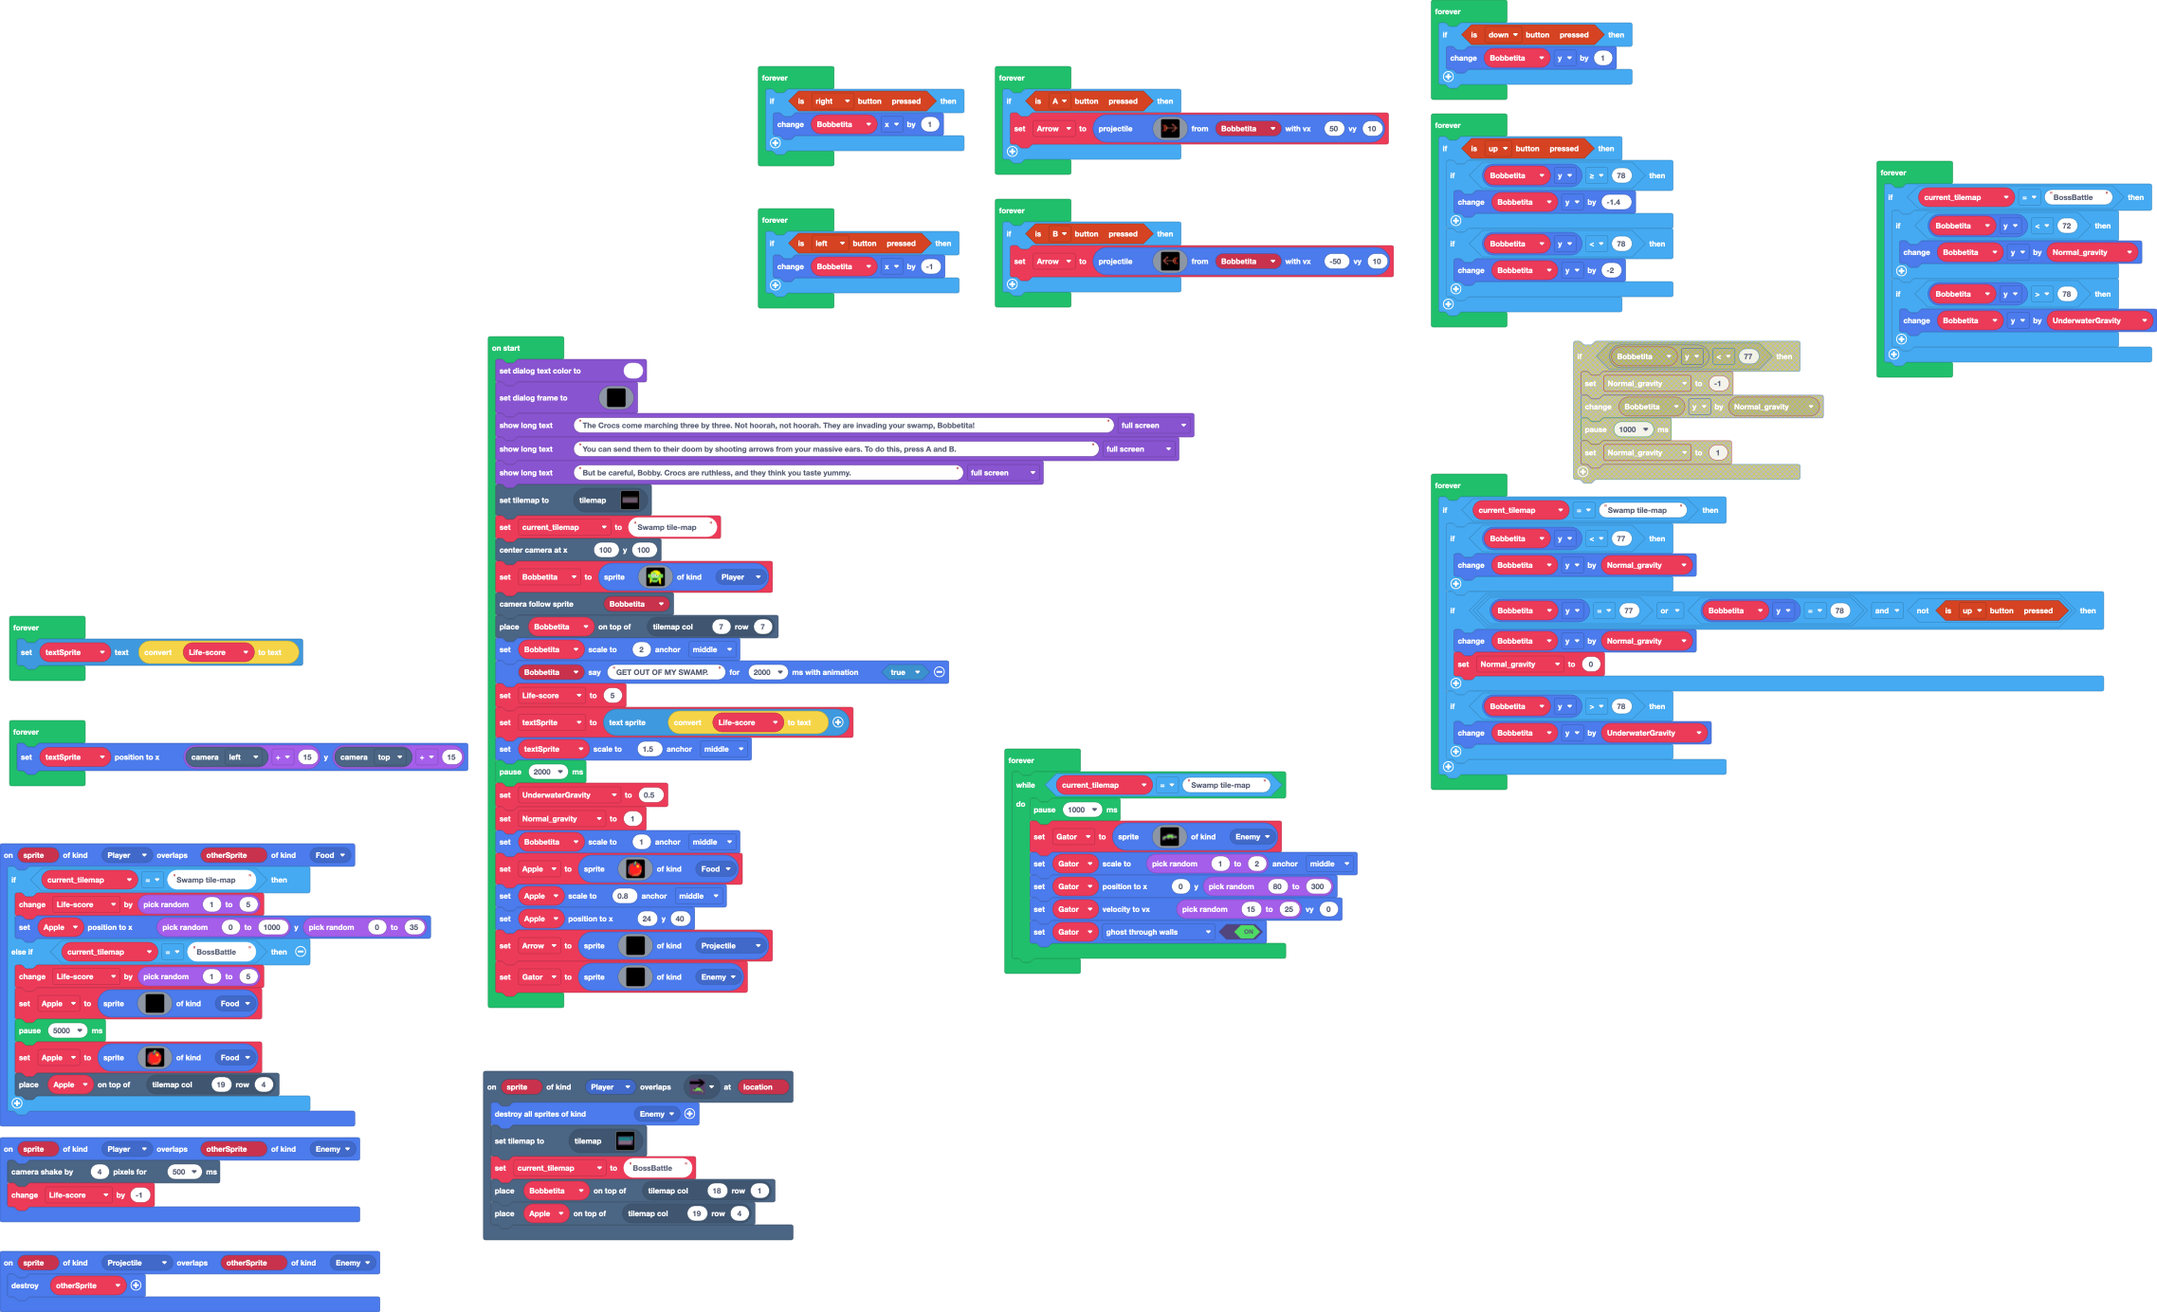
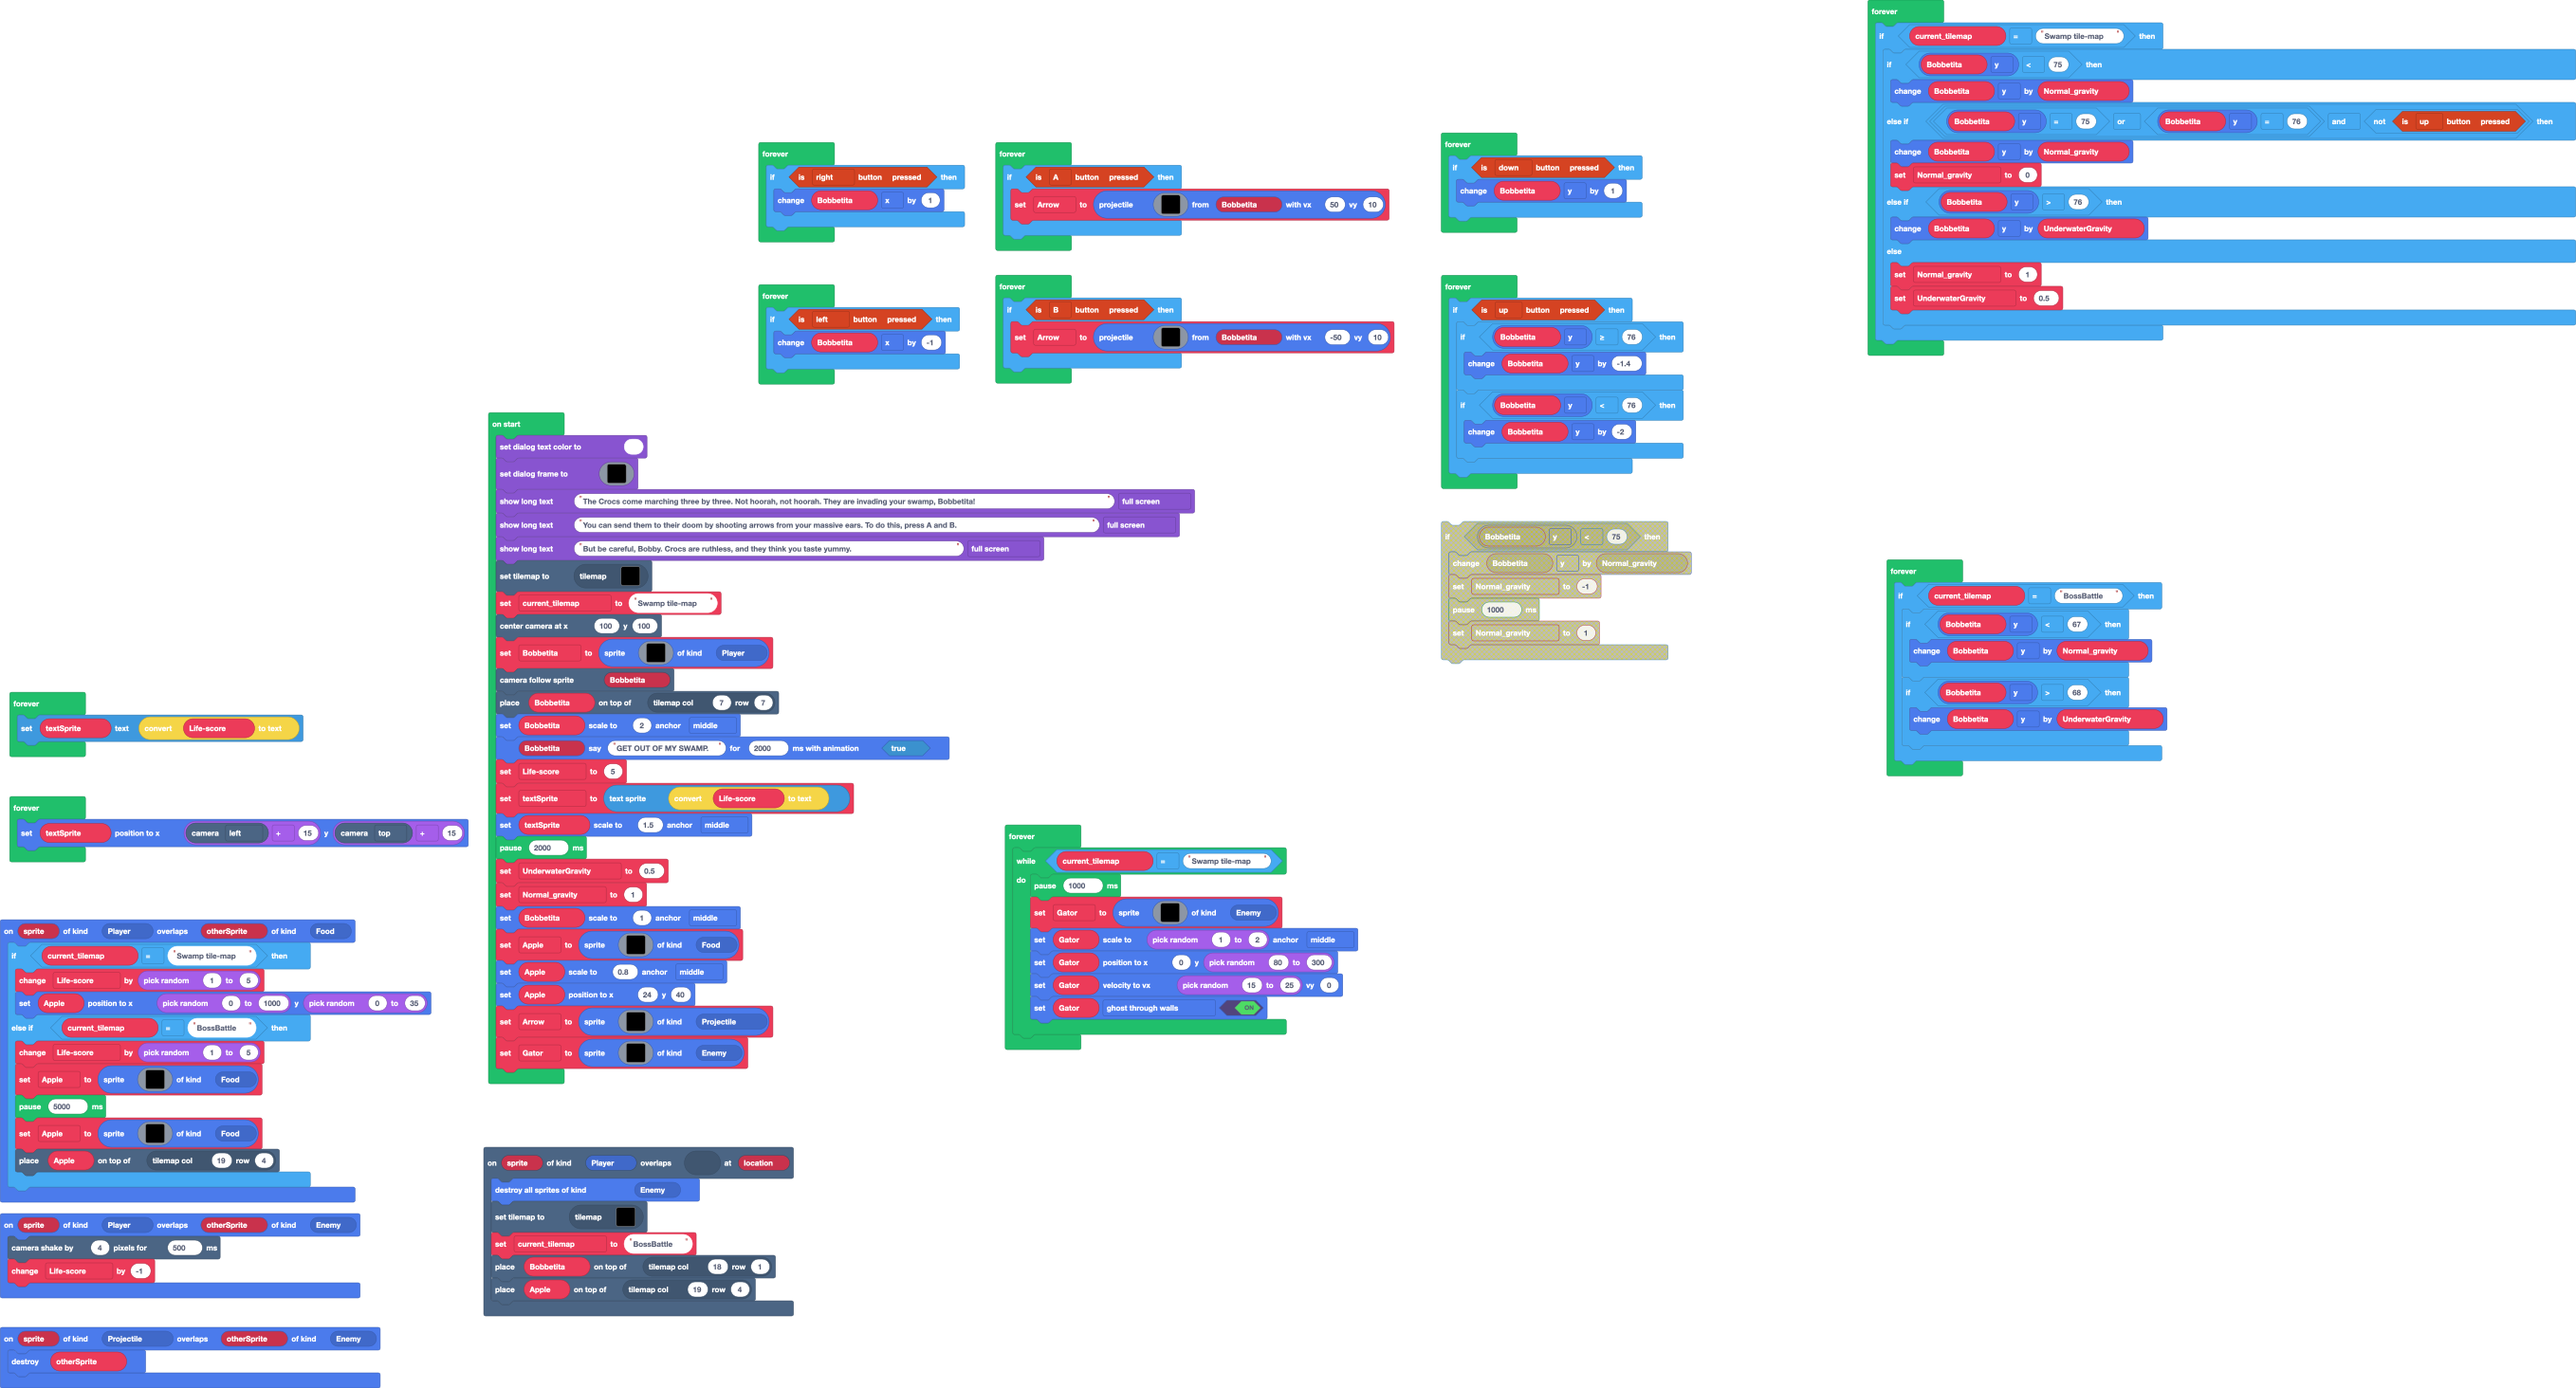
small gravity changes

diff --git a/main.ts b/main.ts
@@ -57,8 +57,18 @@ Apple.setPosition(24, 40)
 let Arrow = sprites.create(assets.image`Abyss`, SpriteKind.Projectile)
 let Gator = sprites.create(assets.image`Abyss`, SpriteKind.Enemy)
 forever(function () {
-    if (controller.down.isPressed()) {
-        Bobbetita.y += 1
+    if (current_tilemap == "Swamp tile-map") {
+        if (Bobbetita.y < 75) {
+            Bobbetita.y += Normal_gravity
+        } else if ((Bobbetita.y == 75 || Bobbetita.y == 76) && !(controller.up.isPressed())) {
+            Bobbetita.y += Normal_gravity
+            Normal_gravity = 0
+        } else if (Bobbetita.y > 76) {
+            Bobbetita.y += UnderwaterGravity
+        } else {
+            Normal_gravity = 1
+            UnderwaterGravity = 0.5
+        }
     }
 })
 forever(function () {
@@ -72,13 +82,8 @@ forever(function () {
     }
 })
 forever(function () {
-    if (controller.up.isPressed()) {
-        if (Bobbetita.y >= 78) {
-            Bobbetita.y += -1.4
-        }
-        if (Bobbetita.y < 78) {
-            Bobbetita.y += -2
-        }
+    if (controller.down.isPressed()) {
+        Bobbetita.y += 1
     }
 })
 forever(function () {
@@ -92,25 +97,21 @@ forever(function () {
     }
 })
 forever(function () {
-    if (current_tilemap == "BossBattle") {
-        if (Bobbetita.y < 72) {
-            Bobbetita.y += Normal_gravity
+    if (controller.up.isPressed()) {
+        if (Bobbetita.y >= 76) {
+            Bobbetita.y += -1.4
         }
-        if (Bobbetita.y > 78) {
-            Bobbetita.y += UnderwaterGravity
+        if (Bobbetita.y < 76) {
+            Bobbetita.y += -2
         }
     }
 })
 forever(function () {
-    if (current_tilemap == "Swamp tile-map") {
-        if (Bobbetita.y < 77) {
+    if (current_tilemap == "BossBattle") {
+        if (Bobbetita.y < 67) {
             Bobbetita.y += Normal_gravity
         }
-        if ((Bobbetita.y == 77 || Bobbetita.y == 78) && !(controller.up.isPressed())) {
-            Bobbetita.y += Normal_gravity
-            Normal_gravity = 0
-        }
-        if (Bobbetita.y > 78) {
+        if (Bobbetita.y > 68) {
             Bobbetita.y += UnderwaterGravity
         }
     }
